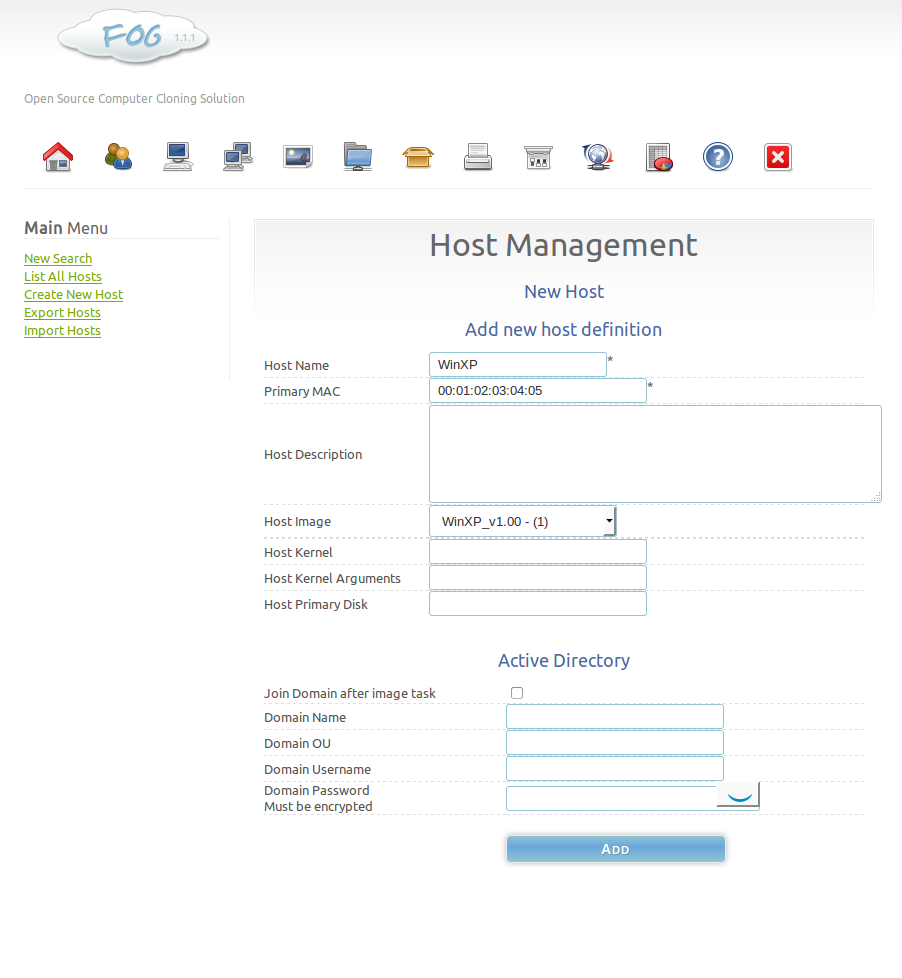
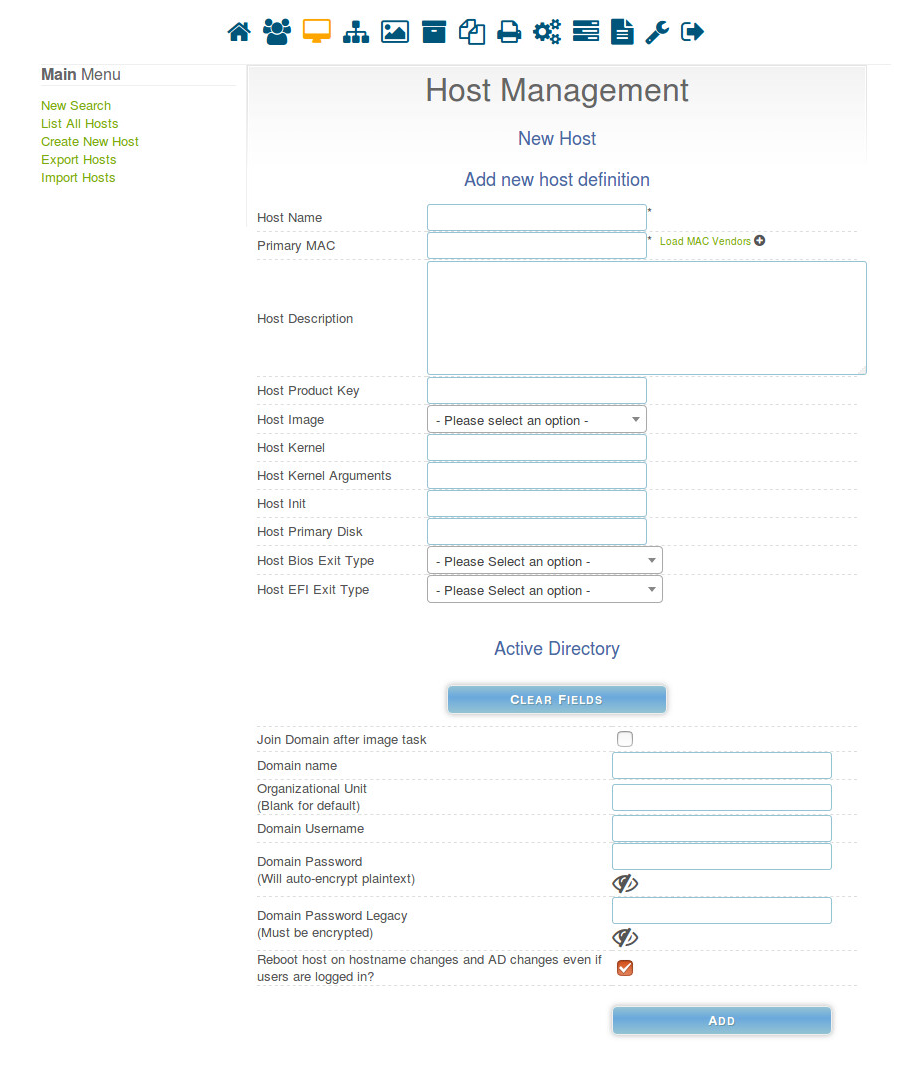
First cut at updating docs and screenshots to reflect FOG 1.3.4. I also removed the screenshot for the scheduled_job as well as the documentation describing this as it seems using the RPC reboot is a better solution to getting the physical box to a clean state.

diff --git a/docs/book/installation/guest_physical/saving.rst b/docs/book/installation/guest_physical/saving.rst
@@ -48,24 +48,16 @@ image you created above from the "Host Image" option, when finished click the
 At this point you should be ready to take an image from the guest machine.
 In order to take an image you will need to navigate to the Task Management page
 and list all hosts (\http://<your_fog_server>/fog/management/index.php?node=tasks&sub=listhosts).
-From here you should be able to click the Upload icon (Green up arrow), which
+From here you should be able to click the Capture icon, which
 should instantly add a task to the queue to take an image.
 Now you should reboot your Cuckoo guest image and it should PXE boot into Fog
 and capture the base image from the cuckoo guest.
 
-After you have successfully taken an image of the guest machine, you can use
-that image as one to deploy to the Cuckoo physical sandbox as needed.
-It is recommended to use a scheduled task to accomplish this.
-In order to create a scheduled task to re-image sandboxes, navigate to the Host
-Management page on Fog (http://<your_fog_server>/fog/management/index.php?node=host&sub=list).
-Then click "Download" the machine you wish to schedule the re-image task for.
-From this menu, select "Schedule Cron-style Deployment" and put in the values
-you wish for the schedule to apply to (``*/5 * * * *``) in the case shown in the
-screenshot below, but you may need to tweak these times for your environment.
-
-    .. image:: ../../_images/screenshots/fog_scheduled_job.png
-        :align: center
-
+Now that you have created and capture an image in FOG, Cuckoo will use this image to
+rebuild the guest machine after each analysis task. If you have provided Cuckoo with 
+valid FOG credentials and enabled Remote RPC (as shown in the Network Configuration
+section), Cuckoo will automatically schedule the Deploy Task in FOG and will also
+reboot the guest machine for you.
 
 Setup using VMWare (Bonus!)
 ===========================

diff --git a/docs/book/installation/guest_physical/requirements.rst b/docs/book/installation/guest_physical/requirements.rst
@@ -62,3 +62,15 @@ However, any re-imaging platform can be used (Clonezilla, Deepfreeze, etc) to
 accomplish this.
 
 .. _`Fog`: http://www.fogproject.org/
+
+Cuckoo Configuration Requirements
+=================================
+Since we are using physical machines to perform our analysis, we must account
+for the reboot/rebuild time of our physical machines in our Cuckoo configuration.
+Spefically, we must modify the critical timeout as specified in conf/cuckoo.conf.
+	critical = 60
+By default, this value is set to 60 (seconds). We need to update it so that it
+reflects the amount of time required to reboot and rebuild the physical guest.
+In testing 10 minutes (i.e., critical = 600) has proven sufficient. However,
+it is recommended that you analyze the time it takes to reboot/rebuild the 
+phyical machine in your environment before setting this value.
